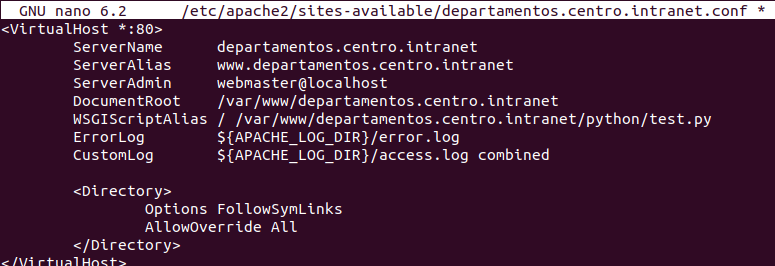
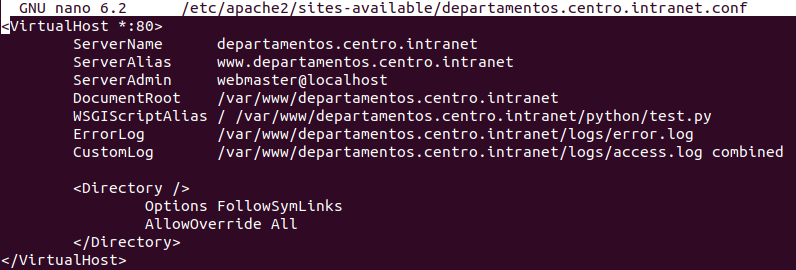
241218_1330

Changed region(s): [[0.0, 0.0, 1.0, 0.6015], [0.0, 0.6617, 0.4645, 1.0]]

diff --git a/md/5.md b/md/5.md
@@ -66,10 +66,9 @@ sudo nano /etc/apache2/sites-available/departamentos.centro.intranet.conf
         ErrorLog        /var/www/departamentos.centro.intranet/logs/error.log
         CustomLog       /var/www/departamentos.centro.intranet/logs/access.log combined
 
-        <Directory /var/www/departamentos.centro.intranet>
+        <Directory />
                 Options FollowSymLinks
                 AllowOverride All
-                Require all granted
         </Directory>
 </VirtualHost>
 ```
@@ -88,3 +87,7 @@ Reiniciamos el servicio de Apache:
 ``` cmd
 sudo systemctl restart apache2
 ```
+
+Ahora , cuando accedamos a la URL `http://departamentos.centro.intranet`, deberíamos ver el mensaje "Hello World" en la pantalla.
+
+![](/md/res/img/39.png)

diff --git a/md/6.md b/md/6.md
@@ -12,3 +12,18 @@
 
 # Protegeremos el acceso a la aplicación python mediante autenticación
 
+Para proteger el acceso a la aplicación Python, podemos utilizar autenticación. En este caso, utilizaremos autenticación de usuario y contraseña.
+
+Creamos un directorio llamdo password dentro de `/var/www/departamentos.centro.intranet`, en el cual almacenaremos los usuarios.
+
+``` cmd
+sudo mkdir /var/www/departamentos.centro.intranet/password
+```
+
+Creamos las credenciales
+
+``` cmd
+sudo htpasswd -c /var/www/departamentos.centro.intranet/password/passwords usuario
+```
+
+![](/md/res/img/40.png)
